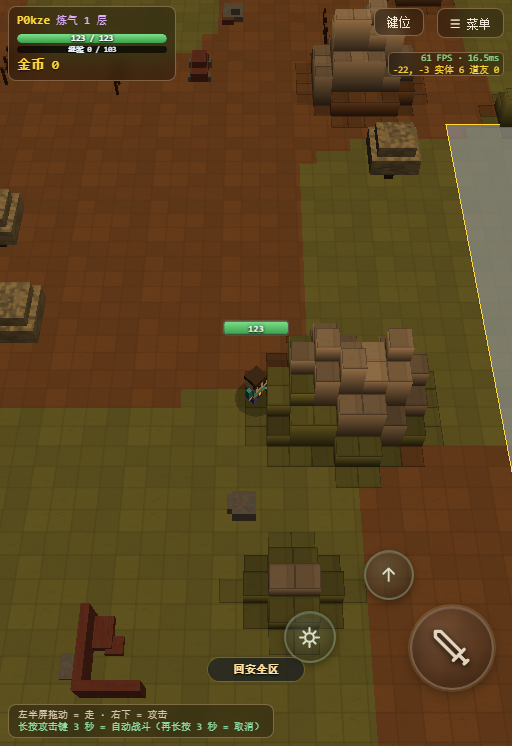
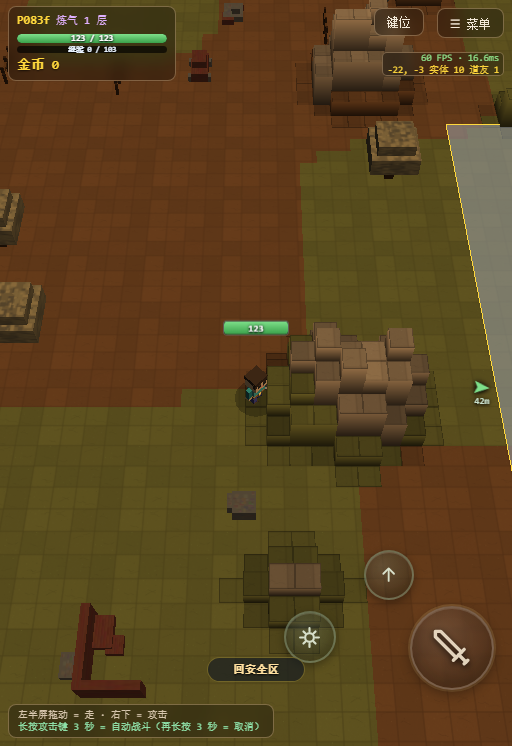
the sword stabs twice, and animations are no longer fixed at five frames
The pose function assumed exactly five keyframes and four segments - the segment was picked
by three hardcoded comparisons. The sword needs six frames, and the axe and hammer changes
coming next need more, so the segment is now found by walking the timing table, which works
for any number.

Easing keeps the same character: the first segment eases in, the last eases in and out, and
the middle ones alternate between fast and linear. Every existing animation has four
segments and therefore takes exactly the same path as before.

The sword's new animation is six frames: a shallow wind-up, a quick thrust, a short pull
back, a second thrust that reaches slightly further, and a return. The two thrusts land about
eighteen hundredths of a second apart, which reads as two distinct strikes rather than one
long one.

Verified that all eight weapon types animate without producing non-finite values, so the
generalisation did not break the others.

Changed region(s): [[0.7188, 0.0617, 0.9062, 0.1233], [0.9062, 0.4933, 0.9688, 0.555], [0.0625, 0.0, 0.0938, 0.0308]]

diff --git a/web/core/game.js b/web/core/game.js
@@ -4912,17 +4912,37 @@ var KF_DRAW = [
 ];
 var ATK_ARCH = {
   axe: 'chop', hammer: 'chop',
-  sword: 'sweep', saber: 'sweep', staff: 'sweep',
+  sword: 'stab2',                    // ★ round374：单手剑 = 快速前刺两下 ✓
+  saber: 'sweep', staff: 'sweep',
   dagger: 'thrust', spear: 'thrust',
   bow: 'draw'                // ★ 第 70 轮：弓有自己的“拉弓”了 ✓
 };
-var ATK_KF = { chop: KF_CHOP, sweep: KF_SWEEP, thrust: KF_THRUST, draw: KF_DRAW };
+/* ★★★ round374（用户："单手剑改成往前面快速刺两下"）★★★
+   ★ 列的含义（和 KF_THRUST 一致 ✓）：
+     0 armR.x · 1 armR.y · 2 armR.z · 3 剑的俯仰 · 4 身体前倾
+     5 额外偏航 · 6 左臂 · 7 左腿 · 8 右腿 · 9 前冲距离 · 10 高度
+   ★ 6 帧 = 起手 → 刺1出 → 收回 → 刺2出 → 收回 → 回位 ✓
+     （第二下比第一下【更深一点】✗ 看着有节奏 ✓）*/
+var KF_STAB2 = [
+  [ 0.00,  0.00,  0.15,  0.55,  0.00,  0.00, -0.15,  0.00,  0.00,  0.00,  0.00],  // 起手
+  [ 0.88, -0.28,  0.10,  1.22, -0.05, -0.16, -0.28, -0.07,  0.07, -0.04,  0.00],  // 蓄力（很浅 ✗ 要快）
+  [-1.40,  0.04,  0.05,  1.58,  0.11,  0.06,  0.32, -0.15,  0.15,  0.20,  0.00],  // 刺1 —— 出
+  [-0.10, -0.06,  0.12,  0.95,  0.02,  0.00, -0.05, -0.04,  0.04,  0.02,  0.00],  // 收回
+  [-1.50,  0.06,  0.05,  1.66,  0.14,  0.09,  0.38, -0.18,  0.18,  0.26,  0.00],  // 刺2 —— 更深
+  [ 0.00,  0.00,  0.15,  0.55,  0.00,  0.00, -0.15,  0.00,  0.00,  0.00,  0.00]   // 回位
+];
+
+var ATK_KF = { chop: KF_CHOP, sweep: KF_SWEEP, thrust: KF_THRUST, draw: KF_DRAW,
+               stab2: KF_STAB2 };
 // 各自的节奏：劈最慢（收招重 ✓）· 扫居中 · 刺最快（秒收 ✓）
 var ATK_T = {
   chop:   [0.26, 0.43, 0.52, 0.86],
   sweep:  [0.20, 0.36, 0.46, 0.78],
   thrust: [0.14, 0.24, 0.30, 0.58],
-  draw:   [0.22, 0.42, 0.52, 0.90]     // ★ 拉弓要慢一点（举弓 → 拉满 → 撒放 ✓）
+  draw:   [0.22, 0.42, 0.52, 0.90],    // ★ 拉弓要慢一点（举弓 → 拉满 → 撒放 ✓）
+  /* ★ 6 帧 / 5 段：0.09 蓄力 · 0.18 刺1 · 0.27 收 · 0.36 刺2 · 0.62 回位
+     ★ 两下的"出手时刻"间隔 ≈ 0.18 秒 ✗ 手速感明确 ✓ 但又分得清是两下 ✓ */
+  stab2:  [0.09, 0.18, 0.27, 0.36, 0.62]
 };
 
 function atkArchOf(look) { return ATK_ARCH[look] || 'sweep'; }
@@ -4938,19 +4958,32 @@ function heroAtkPose(heroObj, atkT, bx, bz, byaw, look, baseY) {
   var arch = atkArchOf(look);
   var KF = ATK_KF[arch];
   var TT = ATK_T[arch];
-  var TOTAL = TT[3];
-  var T1 = TT[0], T2 = TT[1], T3 = TT[2];
-  var f, e;
-  if (atkT < T1) { f = 0; e = atkT / T1; }
-  else if (atkT < T2) { f = 1; e = (atkT - T1) / (T2 - T1); }
-  else if (atkT < T3) { f = 2; e = (atkT - T2) / (T3 - T2); }
-  else { f = 3; e = Math.min(1, (atkT - T3) / (TOTAL - T3)); }
-  // 缓动：预备用 ease-in(慢起 ✓) 挥击用 ease-out(极快 ✓) 收招用 ease-in-out
+  var TOTAL = TT[TT.length - 1];
+  /* ★★★ round374：帧数改成【通用】（原来写死 5 帧 / 4 段 ✗）
+     ★ 为什么要改：用户要"单手剑刺两下"✗ 那是 6 帧 ✓
+       而 axe/hammer 的左右交替、锤子转圈 也都需要更多帧 ✓
+     ★ 兼容：现有 chop/sweep/thrust/draw 都是 5 帧 ✗ 走同一条路径 ✓
+       段数 = 帧数 − 1 ✗ 缓动按"第一段 ease-in、最后一段 ease-in-out、
+       中间交替"分配 ✓ 和原来的手感完全一致 ✓ */
+  var _nSeg = KF.length - 1;
+  var f, e, _t0 = 0;
+  f = _nSeg - 1;                       // 默认落最后一段
+  e = 1;
+  for (var _si = 0; _si < _nSeg; _si++) {
+    var _tb = TT[_si];
+    if (atkT < _tb) {
+      f = _si;
+      e = (_tb > _t0) ? (atkT - _t0) / (_tb - _t0) : 1;
+      break;
+    }
+    _t0 = _tb;
+  }
+  if (atkT >= TOTAL) { f = _nSeg - 1; e = 1; }
   var ee;
   if (f === 0) { ee = e * e; }
-  else if (f === 1) { ee = 1 - Math.pow(1 - e, 3); }
-  else if (f === 2) { ee = e; }
-  else { ee = e < 0.5 ? (2 * e * e) : (1 - Math.pow(-2 * e + 2, 2) / 2); }
+  else if (f === _nSeg - 1) { ee = e < 0.5 ? (2 * e * e) : (1 - Math.pow(-2 * e + 2, 2) / 2); }
+  else if ((f % 2) === 1) { ee = 1 - Math.pow(1 - e, 3); }
+  else { ee = e; }
   var A = KF[f], B = KF[f + 1];
   var lp = function (i) { return A[i] + (B[i] - A[i]) * ee; };
   heroObj.armR.rotation.x = lp(0);

diff --git a/tools/smoke_p0.js b/tools/smoke_p0.js
@@ -174,6 +174,28 @@ const PW = 'abc123456';
 
   await ev('if (typeof AUTO !== "undefined") { AUTO.on = false; AUTO.faceLock = false; } return 1;');
 
+  // ★ 所有武器动作都能跑（通用化不能弄坏别的武器）
+  const animTest = await ev([
+    'var looks = ["sword","axe","hammer","spear","staff","bow","dagger","saber"];',
+    'var bad = [];',
+    'for (var i = 0; i < looks.length; i++) {',
+    '  try {',
+    '    var h = hero();',
+    '    var arc = (typeof atkArchOf === "function") ? atkArchOf(looks[i]) : "?";',
+    '    var TT = ATK_T[arc]; var tot = TT[TT.length - 1];',
+    '    for (var t = 0; t <= tot; t += 0.05) {',
+    '      heroAtkPose(h, t, P.x, P.z, 0, looks[i], P.y);',
+    '      if (!isFinite(h.armR.rotation.x)) { throw "NaN"; }',
+    '    }',
+    '  } catch (e) { bad.push(looks[i] + ":" + e); }',
+    '}',
+    'var kf = { throat: 0 };',
+    'return JSON.stringify({ bad: bad, swordArch: atkArchOf("sword"),',
+    '  swordFrames: (ATK_KF[atkArchOf("sword")] || []).length,',
+    '  swordSegs: (ATK_T[atkArchOf("sword")] || []).length });',
+  ].join(''));
+  console.log('  动作: ' + animTest);
+
   const ripple = await ev([
     'var live = 0;',
     'for (var i = 0; i < _ripple.length; i++) { if (_ripple[i].on) { live++; } }',
